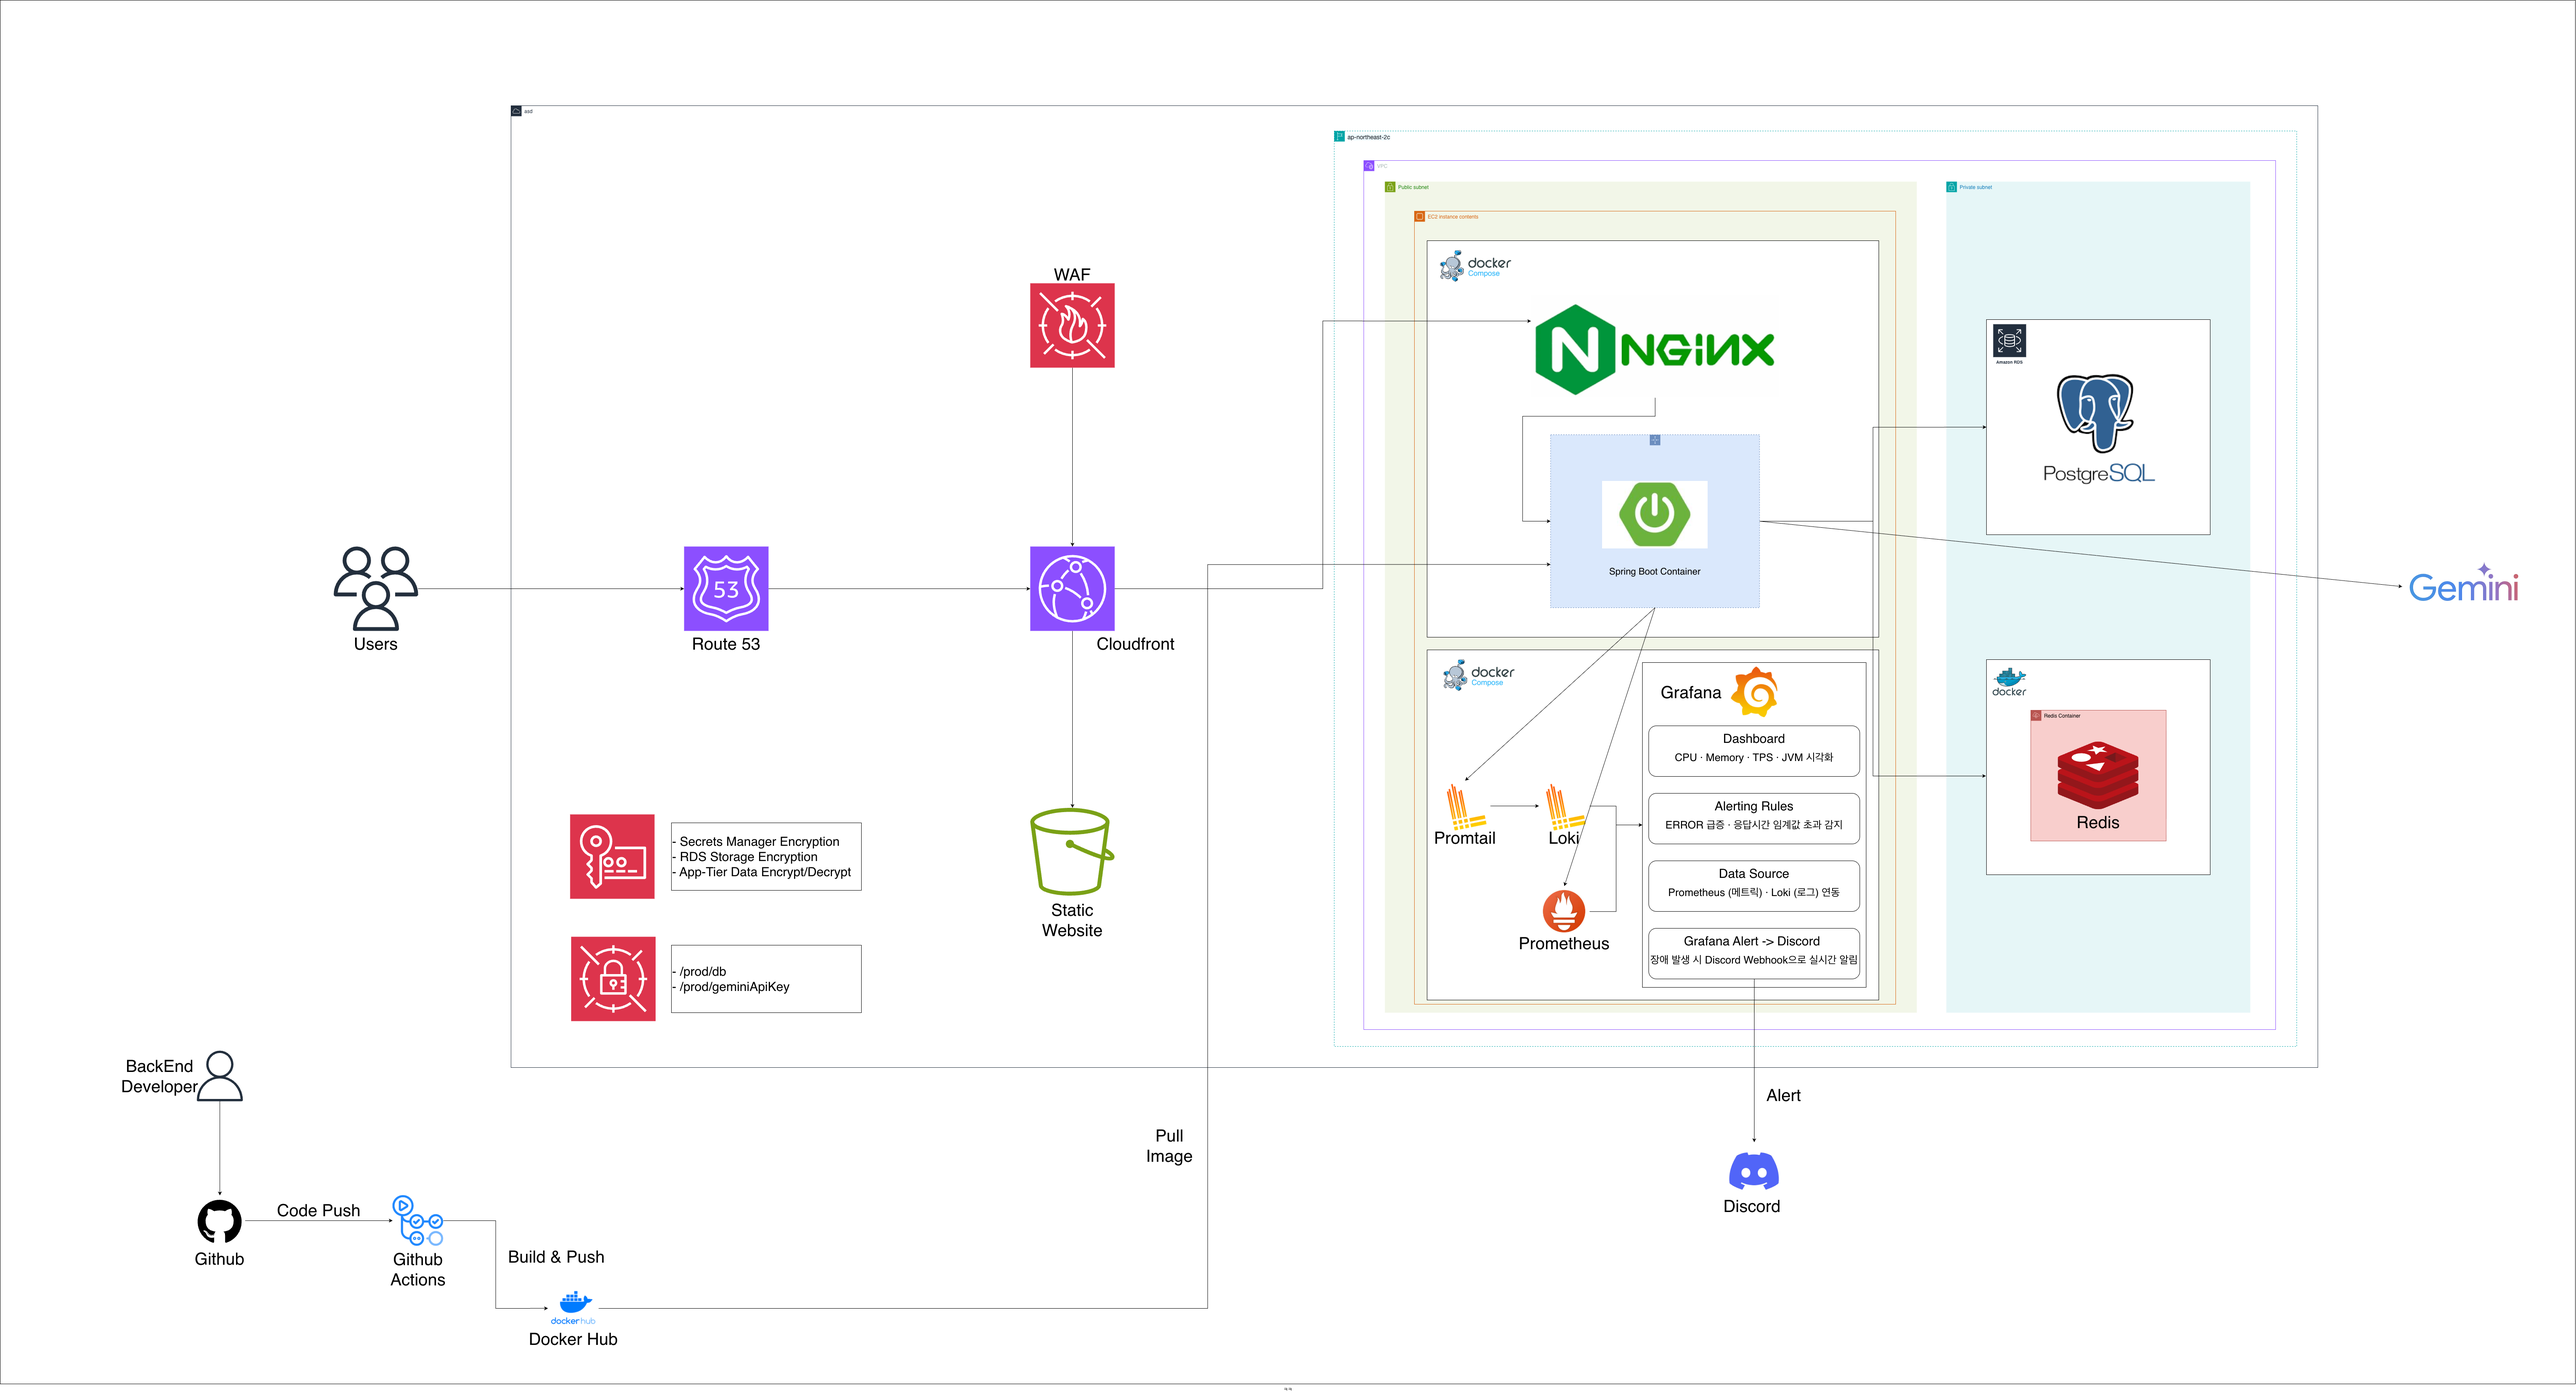
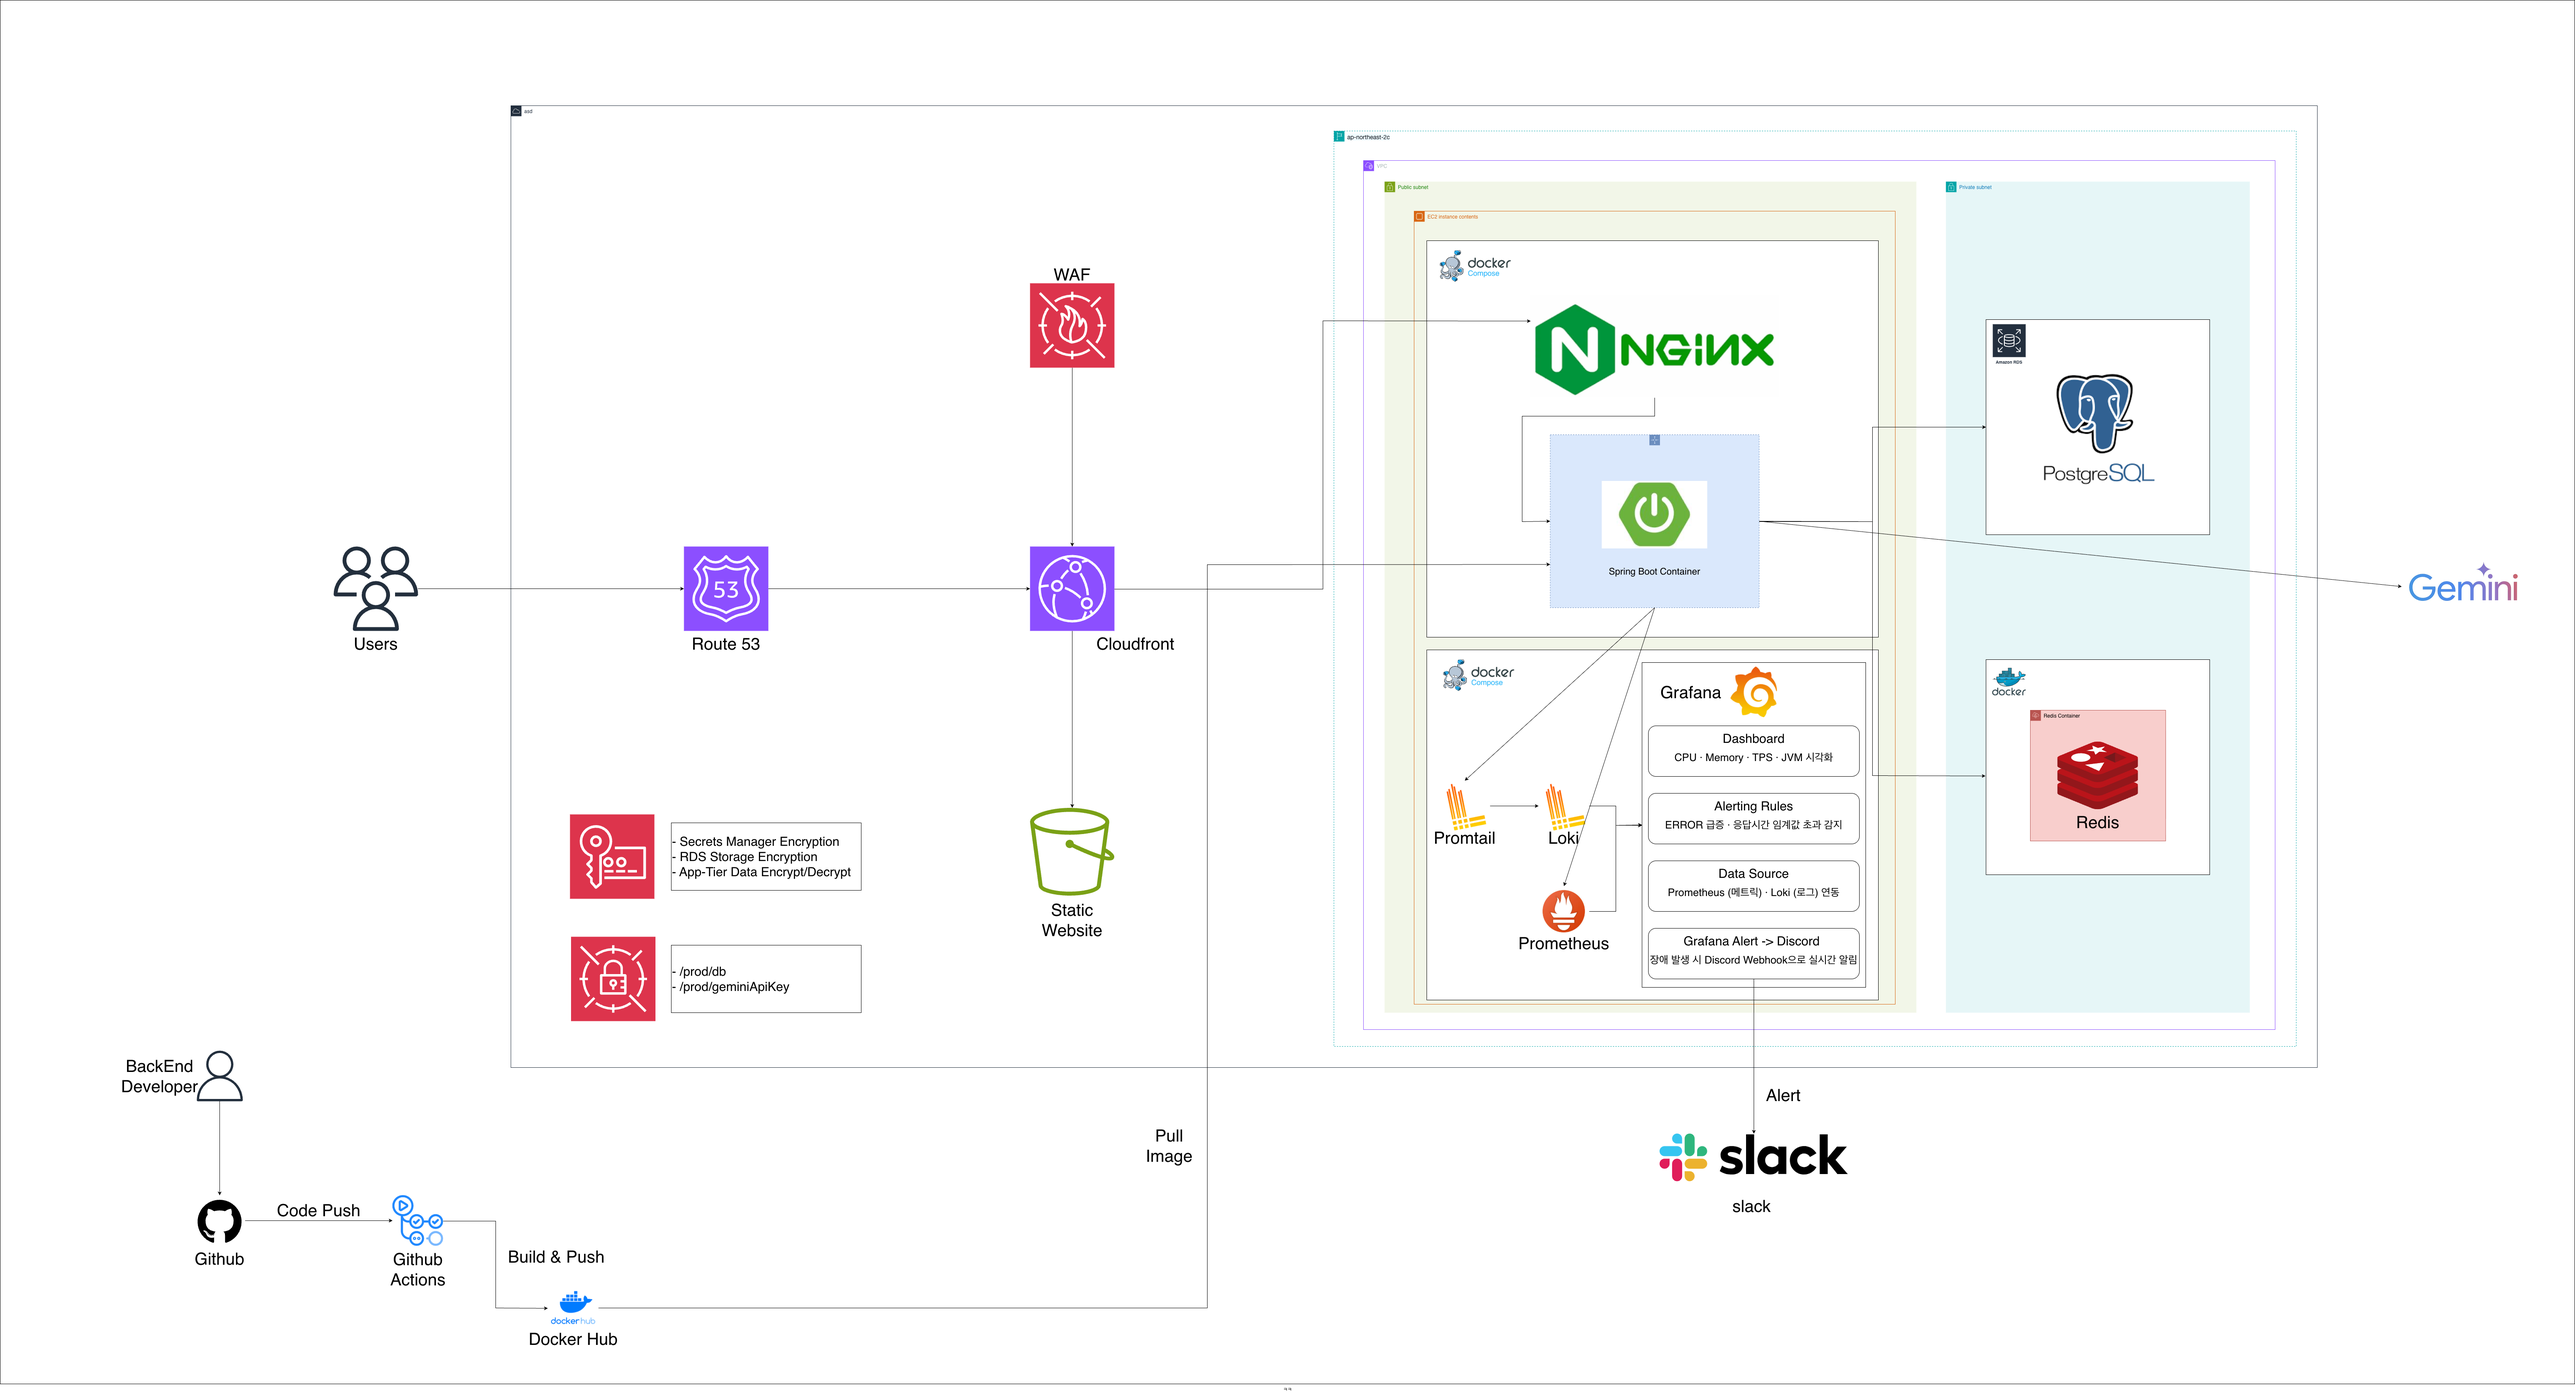
Docs: 시스템 아키텍처 수정 (#216)

Changed region(s): [[0.6228, 0.811, 0.7163, 0.8734], [0.8097, 0.2807, 0.8408, 0.3119], [0.5917, 0.5615, 0.6228, 0.5927]]

diff --git a/README.md b/README.md
@@ -141,8 +141,6 @@ GitHub Actions  →  Docker Hub (Build & Push)
 EC2 SSH 접속  →  Docker Image Pull
     ↓
 Docker Compose 재배포
-    ↓
-Discord Webhook 알림
 ```
 
 ### 🐳 Docker Compose 구성
